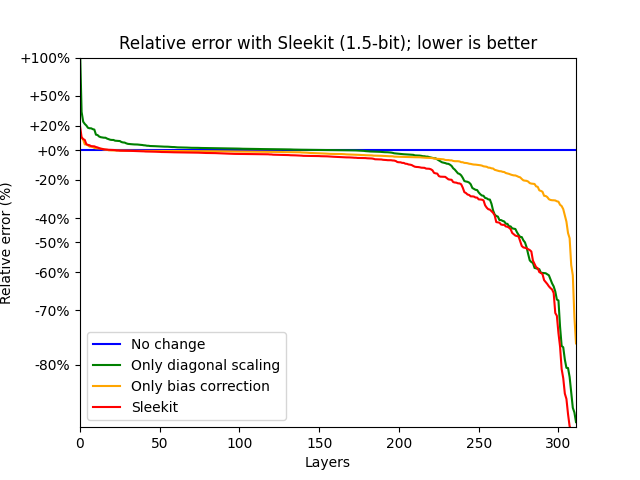
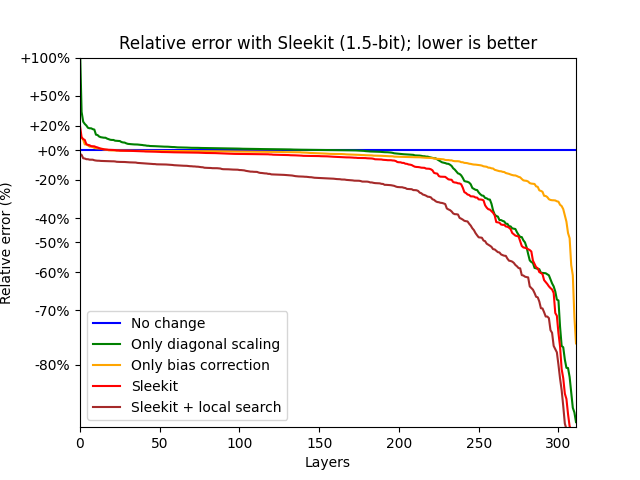
Add local search to the README

diff --git a/results/graph.py b/results/graph.py
@@ -87,11 +87,13 @@ def export_compare_graph(b):
     correction = sorted(data["Correction"] / data["Standard"], reverse=True)
     scaling = sorted(data["Scaling"] / data["Standard"], reverse=True)
     sleekit = sorted(data["ScalingBiasOrder"] / data["Standard"], reverse=True)
+    sleekit_ls100 = sorted(data["ScalingBiasOrderLS100"] / data["Standard"], reverse=True)
     geomean_correction = 100 * np.exp(np.mean(np.log(correction))) - 100
     geomean_scaling = 100 * np.exp(np.mean(np.log(scaling))) - 100
     geomean_sleekit = 100 * np.exp(np.mean(np.log(sleekit))) - 100
+    geomean_sleekit_ls100 = 100 * np.exp(np.mean(np.log(sleekit_ls100))) - 100
     print(
-        f"Compare {b}b: correction {geomean_correction:+.2f}%, scaling {geomean_scaling:+.2f}%, sleekit {geomean_sleekit:+.2f}%"
+        f"Compare {b}b: correction {geomean_correction:+.2f}%, scaling {geomean_scaling:+.2f}%, sleekit {geomean_sleekit:+.2f}%, sleekit local search {geomean_sleekit_ls100:+.2f}%"
     )
 
     plt.title(f"Relative error with Sleekit ({b}-bit); lower is better")
@@ -111,6 +113,7 @@ def export_compare_graph(b):
     plt.plot(scaling, label="Only diagonal scaling", color="green")
     plt.plot(correction, label="Only bias correction", color="orange")
     plt.plot(sleekit, label="Sleekit", color="red")
+    plt.plot(sleekit_ls100, label="Sleekit + local search", color="brown")
     plt.legend()
     plt.savefig(f"results/compare_{b}b.png")
     # plt.show()

diff --git a/README.md b/README.md
@@ -18,13 +18,15 @@ Sleekit uses a very generic quantization method. The steps to quantize a layer a
 
 ## Improvements
 
-We present two generic improvements that can be applied to any quantization method.
-One targets the scaling step, and allows to select better scaling factors. The other targets the weight optimization step, and can significantly reduce the layer error.
+We present deveral generic improvements that can be applied to any quantization method.
+They will target both the scaling step, to select better scaling factors, and the weight optimization step to reduce the layer error.
 
-## Methodology
+### Methodology: layer-per-layer analysis
 
 To develop our methods we analyze the effect of quantization decisions on a per-layer basis.
-Since post-training quantization operates at the layer level, this gives us a much more precise view of quantization behaviour than network-level metrics, and allows for rapid iteration.
+Despite many previous works using network-level metrics, post-training quantization methods minimize the error at the layer level.
+Analyzing the error at the layer level is therefore the natural approach.
+Moreover, network-level metrics have a tendency to be noisy, can hide small quantization errors or on the contrary be over-sensitive to some layers.
 
 Our baseline for comparison is the [GPTQ](https://arxiv.org/abs/2210.17323) algorithm with 3-bit and 1.5-bit weights.
 For the layer weights and metrics, we use layer statistics from a full accuracy run on several smaller networks (OPT-125M, OPT-350M, BLOOM-560M).
@@ -47,10 +49,10 @@ We test three different approaches to scaling, and compare the layer error after
 <img src="results/scaling_1.5b.png" width=45%><img src="results/scaling_3b.png" width=45%>
 
 The usual approach of minimizing the MSE yields results that are far from optimal.
-Using the full hessian matrix or its diagonal yields similar results that are on average much better than MSE alone.
-However, they are still far from the theoretical optimum of integrating the weight optimization algorithm with the scaling method.
+Using the full hessian matrix or its diagonal yields similar results that are on average much better than MSE alone, although they are still far from the theoretical optimum of integrating the weight optimization algorithm with the scaling method.
 
-### Trick 2: adding bias correction
+
+### Trick 2: combining with bias correction
 
 [Bias correction](https://arxiv.org/abs/1810.05723) is a method used to reduce the impact of quantization on a layer.
 Newer quantization methods behave much better, and it is not used much anymore.
@@ -69,6 +71,16 @@ While it is always an improvement in theory, bias correction can play havoc with
 Adding bias correction after optimization, or picking the best of the two results, is always better than the baseline.
 Unsurprisingly, it has more impact with a more agressive quantization.
 
+### Trick 3: adding local search
+
+The weight optimization problem is NP-hard, and can only be solved at scale in an approximate manner.
+GPTQ provides a good heuristic for it, however the heuristic of choice to obtain good solutions to similar problems (QUBO) is a simple local search.
+For this reason, we test the effect of applying a few local search moves after GPTQ, in a best-first manner.
+
+<img src="results/local_search_1.5b.png" width=45%><img src="results/local_search_3b.png" width=45%>
+
+The effect of just a few local search moves is notable on many layers, and applying them after GPTQ can drastically reduce layer error.
+
 ### Minor tricks
 
 We obtain a small improvement by modifying the ordering used for the GPTQ algorithm in weight optimization. GPTQ uses the weights on the diagonal of the matrix, but multiplying them by the sum of squares of the quantization error (without correction) yields a small but significant improvement.
@@ -83,15 +95,20 @@ The following approaches did not yield promising results and were abandoned:
 
 ### Putting it all together
 
-Finally, we put all these algorithms together in Sleekit.
-The hessian matrix is modified to represent the effect of bias correction.
-Scaling is performed based on its diagonal, and weight correction uses our slightly improved ordering.
-The computational cost of the algorithm is not increased, and there are many ways to improve the quality of the results for a penalty in quantization time.
-For example we could run several of the above methods and pick the best.
+Finally, we put these algorithms together in Sleekit:
+
+1. the hessian matrix is modified to represent the effect of bias correction;
+2. scaling is performed based on the hessian diagonal;
+3. weight optimization uses our slightly improved ordering.
+
+The computational cost of the algorithm is not increased so far compared to GPTQ. At the cost of additional computations we add:
+
+4. local search is performed during weight optimization for 100 moves.
+
+
+The various tricks interact well, and their benefits seem to stack, reducing the squared error by one third on average.
 
 <img src="results/compare_1.5b.png" width=45%><img src="results/compare_3b.png" width=45%>
-
-The various tricks interact well, and their benefits seem to stack.
 
 ## References
 
